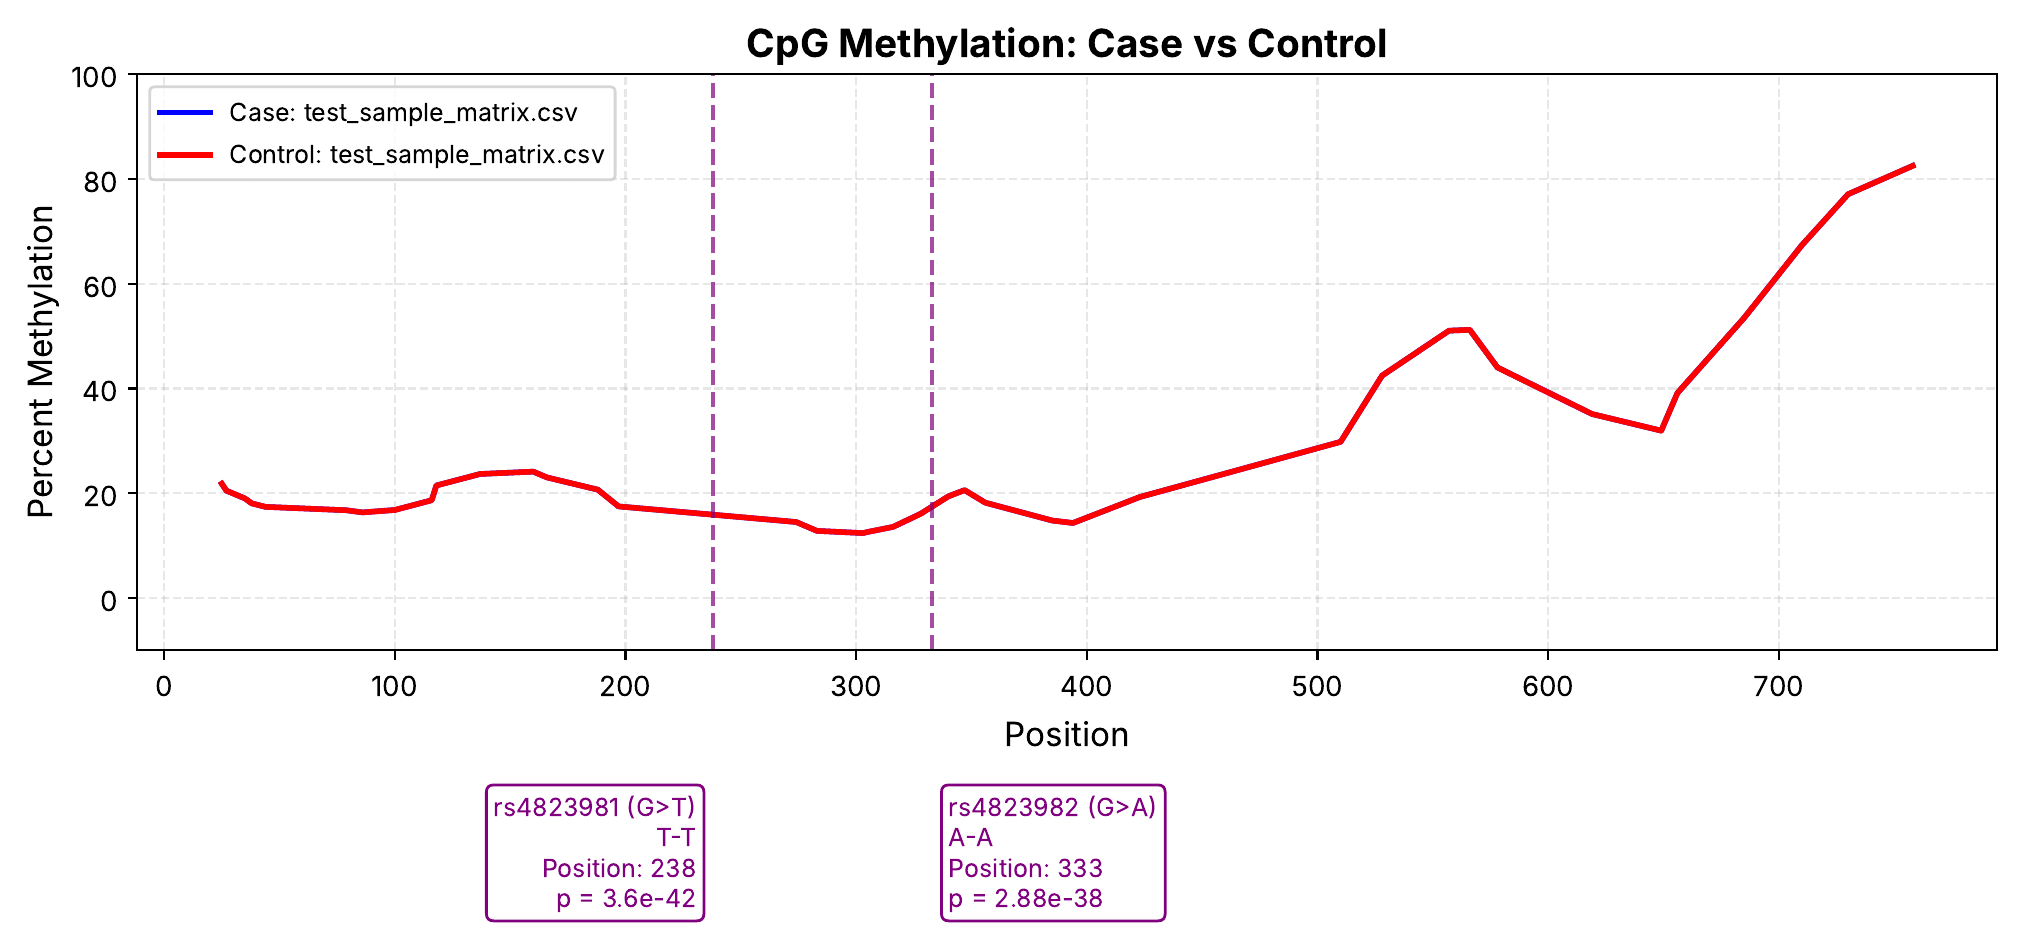
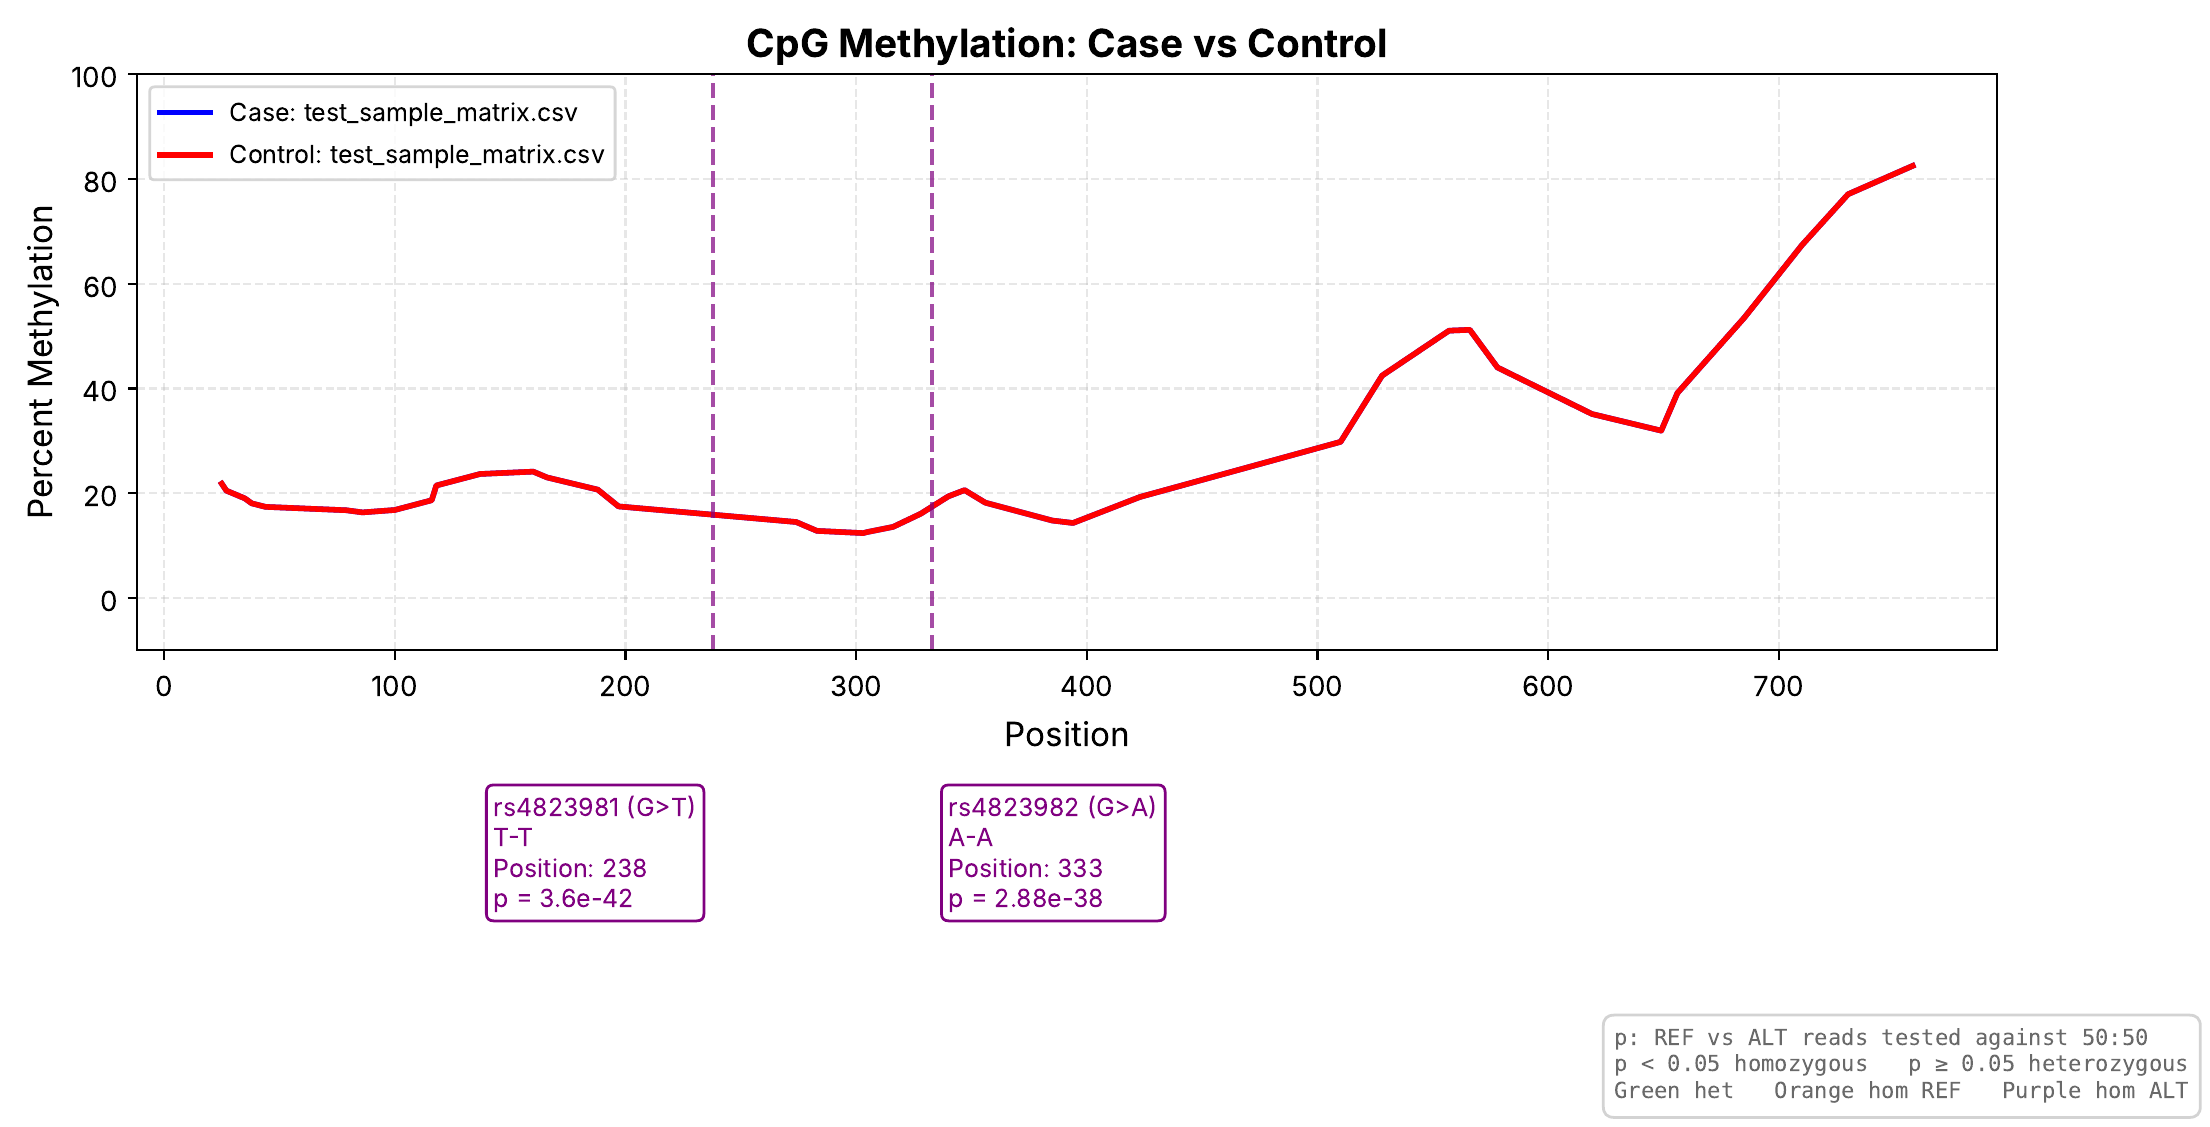
snp p value description

diff --git a/percent_mC.py b/percent_mC.py
@@ -199,11 +199,21 @@ def create_methylation_plot(case_files, control_files, output_pdf, add_snp_lines
                             xy=(pos, 0), xycoords='data',
                             # alternate sides so nearby SNP labels don't overlap
                             xytext=(-6 if i % 2 == 0 else 6, -70), textcoords='offset points',
-                            ha='right' if i % 2 == 0 else 'left', va='top',
+                            ha='right' if i % 2 == 0 else 'left', va='top', multialignment='left',
                             fontsize=9, color=color,
-                            bbox=dict(facecolor='white', edgecolor=color, 
+                            bbox=dict(facecolor='white', edgecolor=color,
                                     boxstyle='round,pad=0.3'))
-        
+
+                # Key explaining how to read the SNP calls
+                if zygosity_results:
+                    key = ("p: REF vs ALT reads tested against 50:50\n"
+                           "p < 0.05 homozygous   p ≥ 0.05 heterozygous\n"
+                           "Green het   Orange hom REF   Purple hom ALT")
+                    fig.text(0.98, 0.02, key, ha='right', va='bottom', multialignment='left', fontsize=8,
+                             family='monospace', color='dimgray',
+                             bbox=dict(facecolor='white', edgecolor='lightgray',
+                                       boxstyle='round,pad=0.5'))
+
         ax.set_xlabel('Position', fontsize=12)
         ax.set_ylabel('Percent Methylation', fontsize=12)
         ax.set_title('CpG Methylation: Case vs Control', fontsize=14, fontweight='bold')
